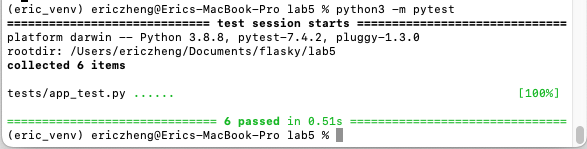
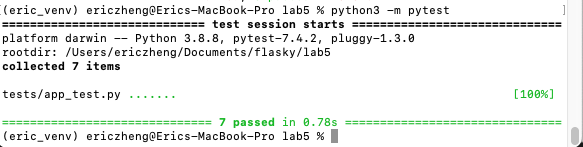
Adding extra test for search

Changed region(s): [[0.0, 0.0, 1.0, 1.0], [0.8645, 0.5714, 0.9571, 0.6803]]

diff --git a/lab5/tests/app_test.py b/lab5/tests/app_test.py
@@ -84,3 +84,9 @@ def test_delete_message(client):
     rv = client.get("/delete/1")
     data = json.loads(rv.data)
     assert data["status"] == 1
+
+
+def test_search(client):
+    """Ensure search is working"""
+    response = client.get("/search?query=testing", content_type="html/text")
+    assert response.status_code == 308  # should get redirected
